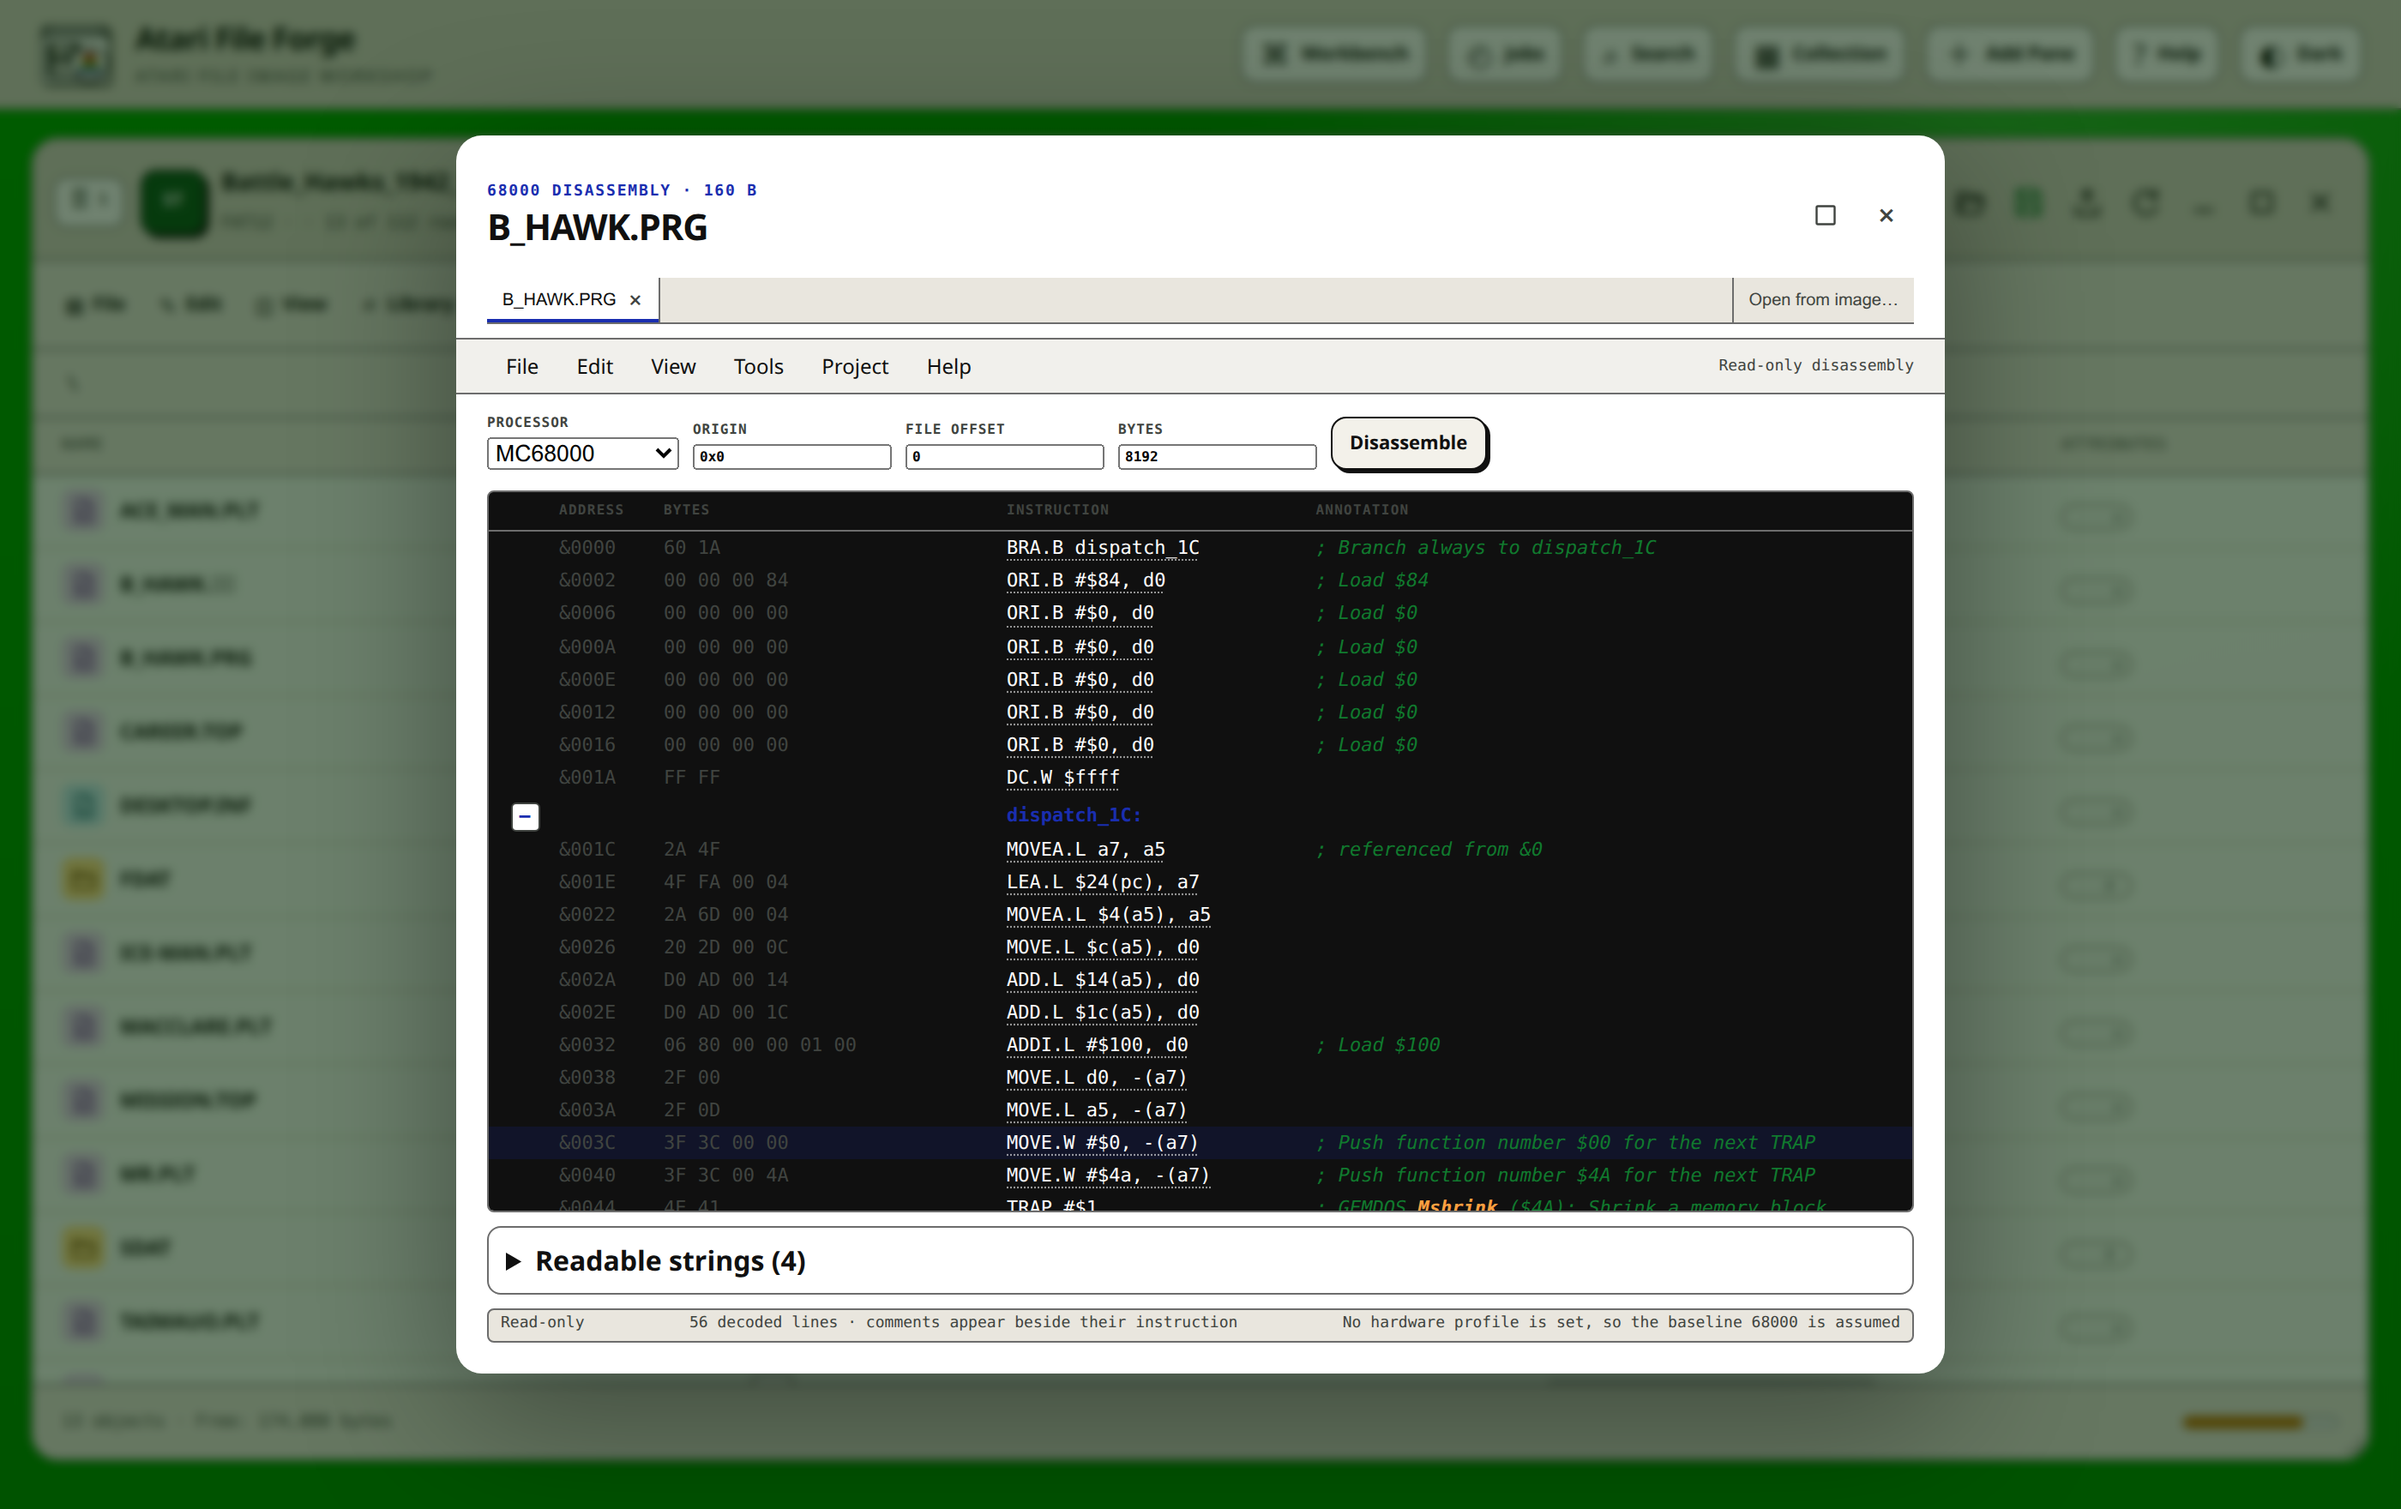
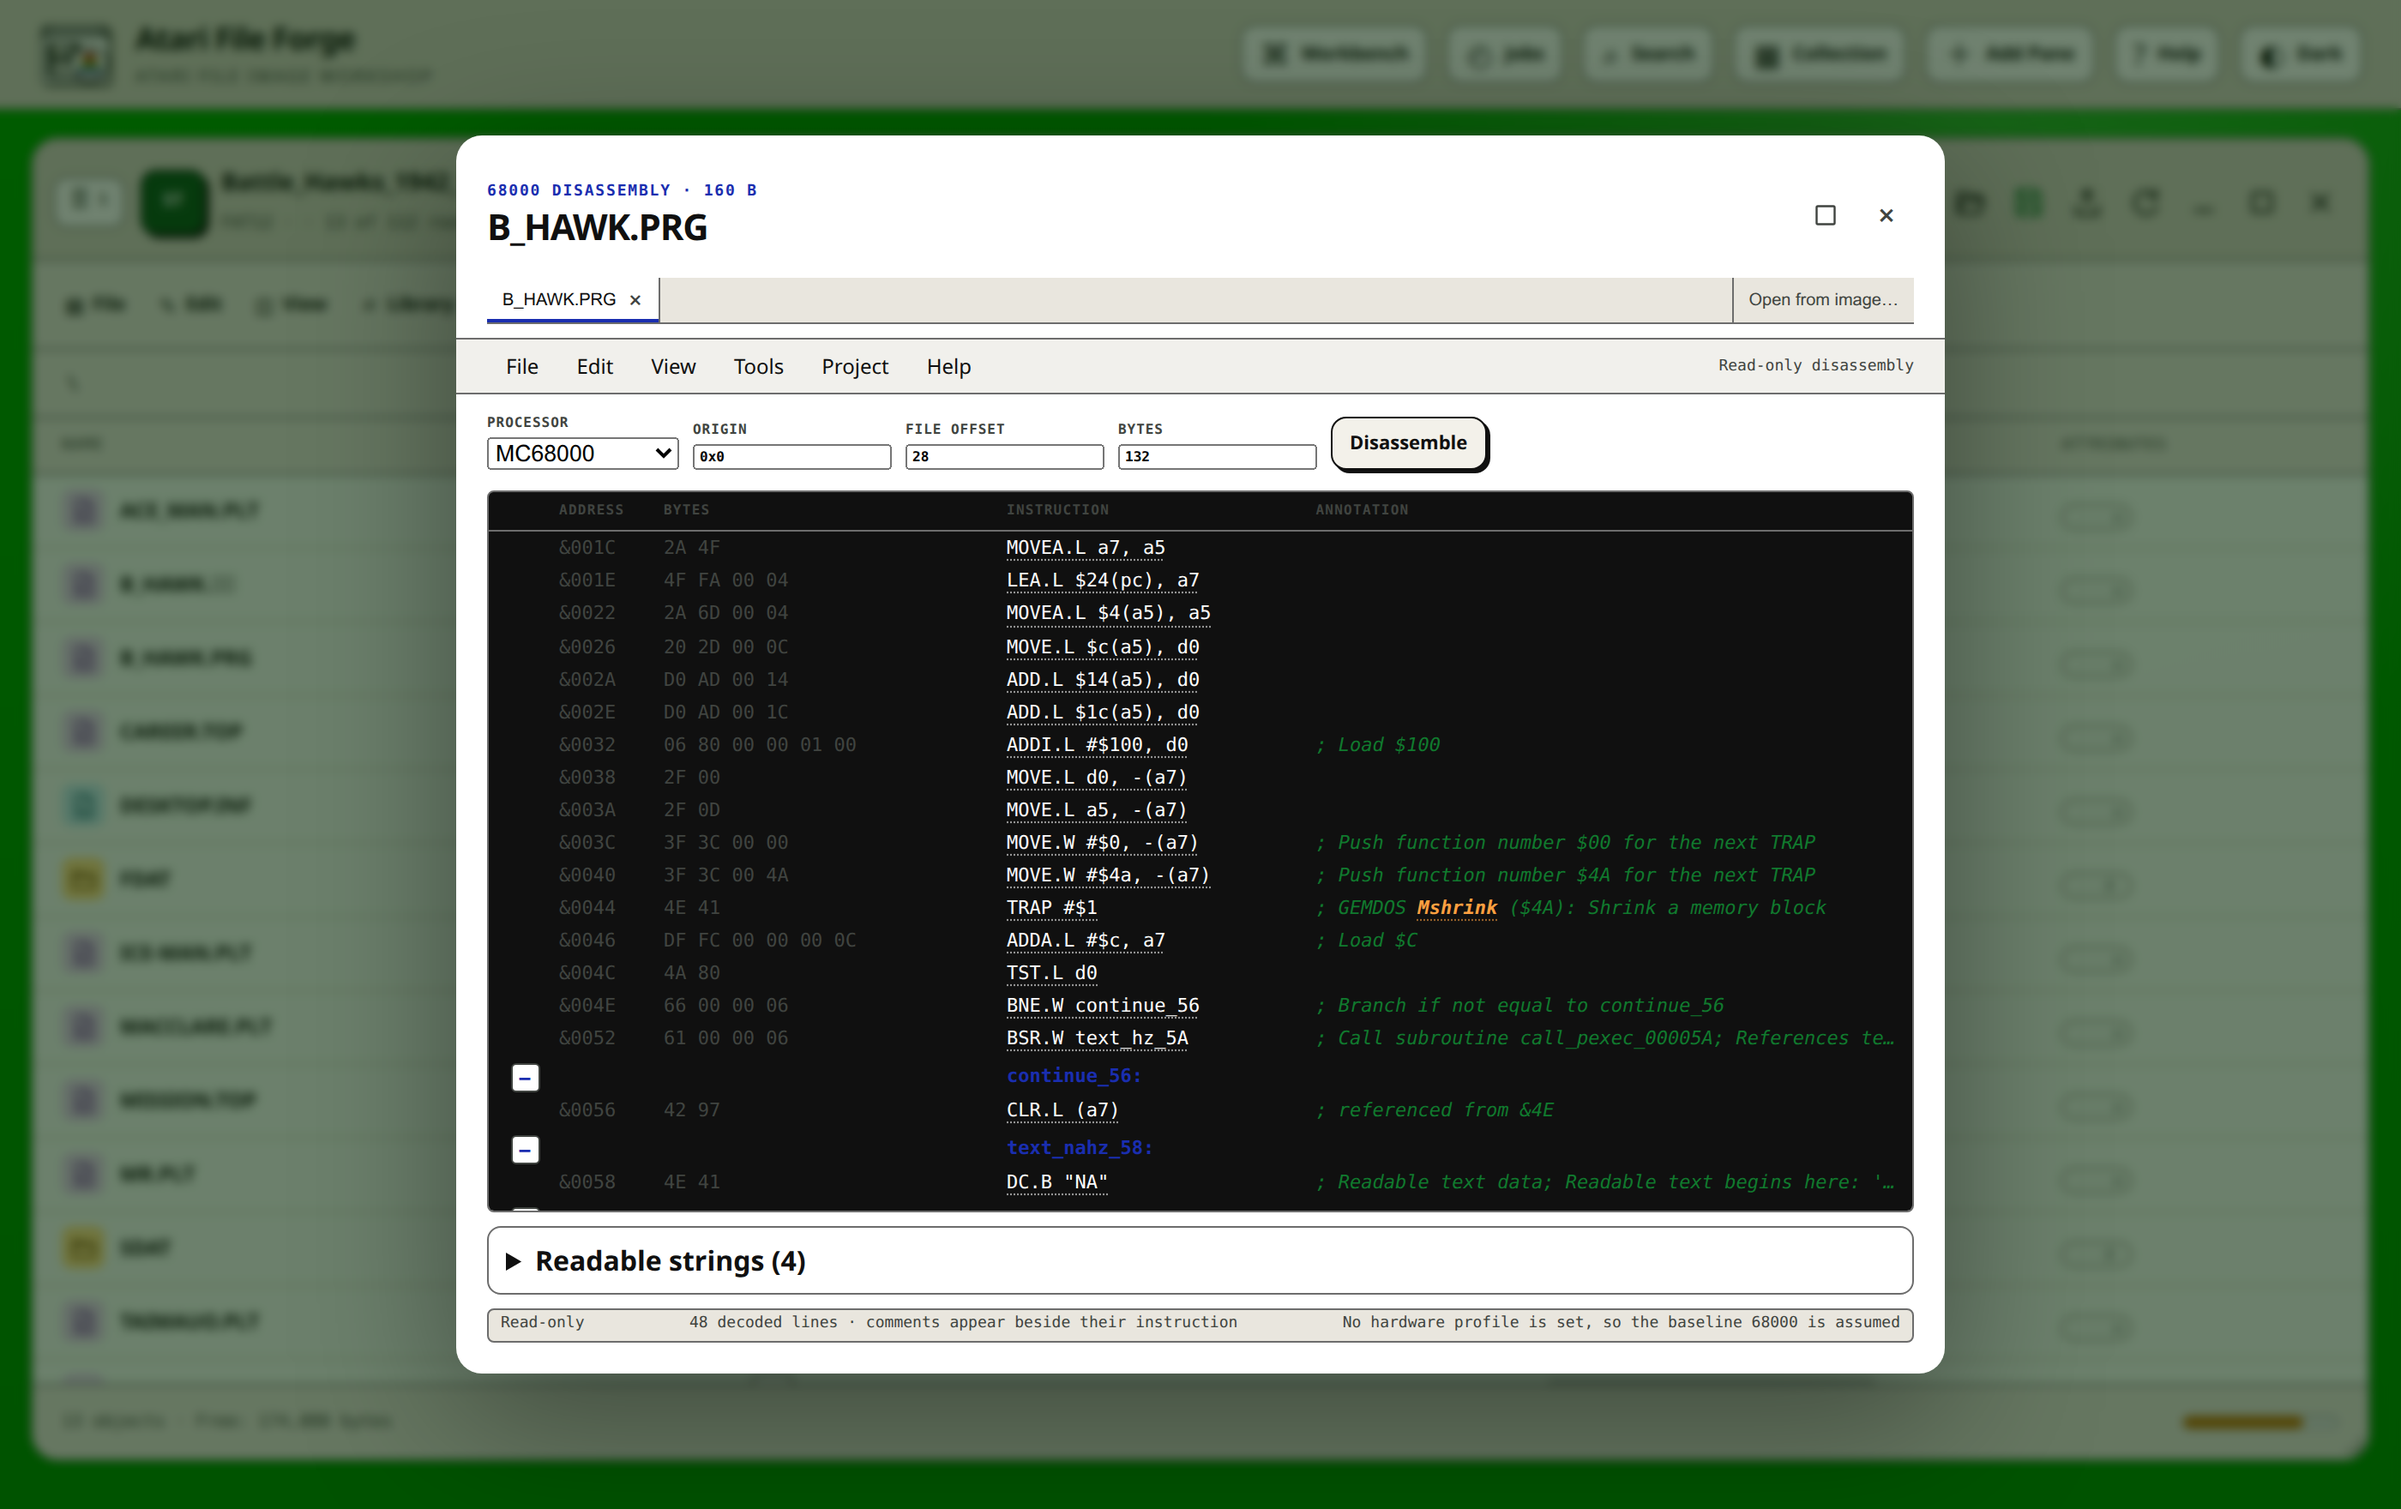
Stop the editor asking for offset zero on a first listing
The decoder was taught to skip a program header and then told exactly
where to start on every request, so it never got the chance. Opening
B_HAWK.PRG from a real game disk still began with seven decoded lines
of header sizes.

The editor now sends no offset and no length unless it is jumping to a
particular place, such as a string the reader clicked. The same listing
now opens at offset 28 with the text segment's own length, and the
first line is the first instruction TOS would execute.

Changed region(s): [[0.1864, 0.3438, 0.8079, 0.8125], [0.5593, 0.5312, 0.6525, 0.625], [0.5593, 0.375, 0.5904, 0.5]]

diff --git a/app/static/app.js b/app/static/app.js
@@ -7018,8 +7018,13 @@ async function openFileEditor(index, name, target = null, pathOverride = null, f
       pane.archiveMember = "";
       return loadDirectory(index);
     }
+    // No offset and no length unless the caller is jumping to somewhere
+    // specific, so that a program listing opens at its code rather than at
+    // its 28-byte header.
     if (report.view === "disassembly") return renderDisassemblyEditor(
-      index, entry, path, report, "auto", "", String(focusOffset ?? 0), "8192", focusOffset, target,
+      index, entry, path, report, "auto", "",
+      focusOffset === null || focusOffset === undefined ? "" : String(focusOffset),
+      "", focusOffset, target,
     );
     if (report.view === "hex") {
       modal.close();
